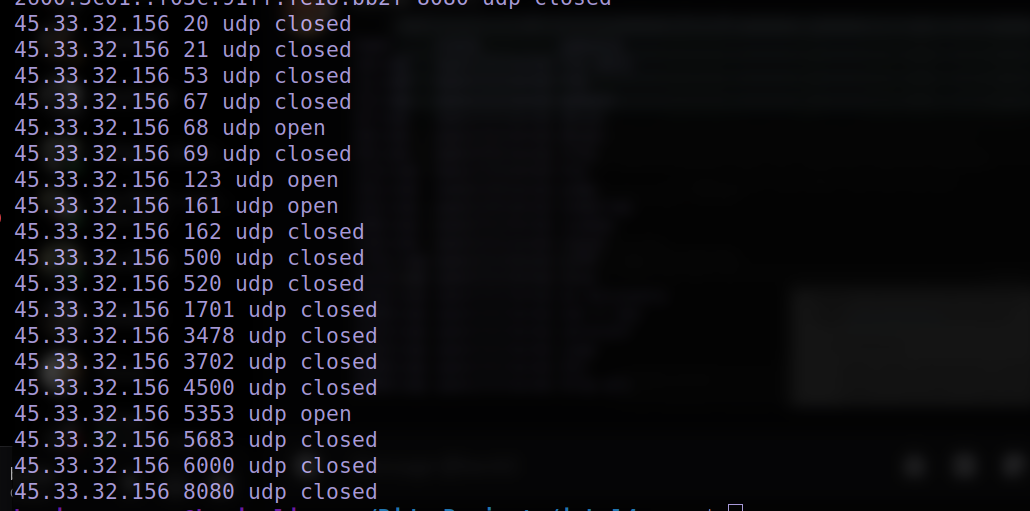
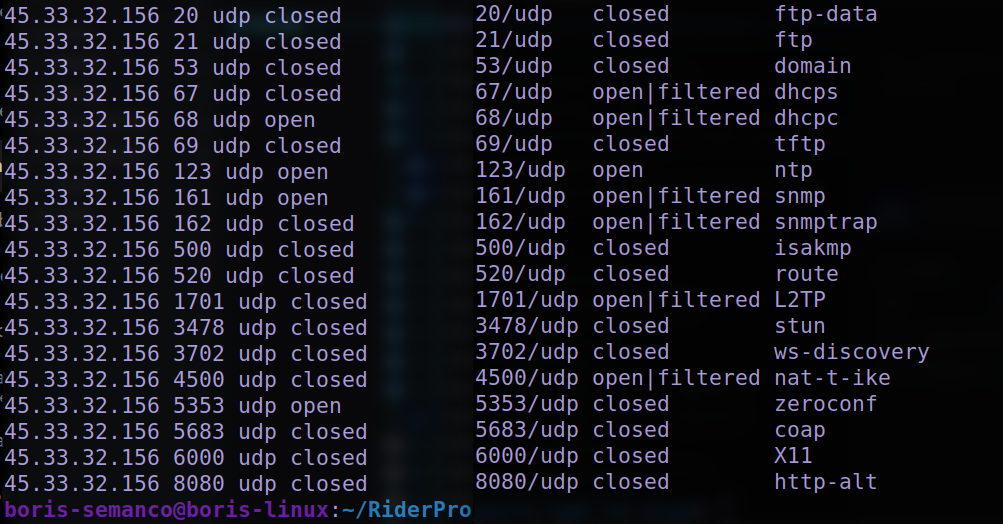
docs: changed tests results because i was testing it wrong

diff --git a/README.md b/README.md
@@ -243,9 +243,9 @@ sudo dotnet run -i eth0 -t 80,443 -u 53 -w 1000 example.com
 
    ```
    Input: sudo ./ipk-l4-scan -i tun0 -u 53 scanme.nmap.org
-   Expected: Port 53 open
+   Expected: Port 53 closed
    Actual: Port 53 closed
-   Nmap Result: Not matched
+   Nmap Result: Matched
    Wireshark Capture: ICMP Port Unreachable for closed ports
    ```
 
@@ -267,10 +267,12 @@ sudo dotnet run -i eth0 -t 80,443 -u 53 -w 1000 example.com
 
    ```
    Input: sudo ./ipk-l4-scan -i tun0 -u 20,21,53,67,68,69,123,161,162,500,520,1701,3478,3702,4500,5353,5683,6000,8080 scanme.nmap.org
-   Expected: All ports open (nmap results are open|filtered)
-   Actual: Quite poor, 4 ports were open
+   Expected: Some closed, some opened
+   Actual: 5 ports not matched out of 19
    Wireshark Capture: ICMP Port Unreachable for closed ports
    ```
+
+   Comparison with Nmap:
 
    ![Multiple UDP ports](screenshots/udp_multiple.png)
 
